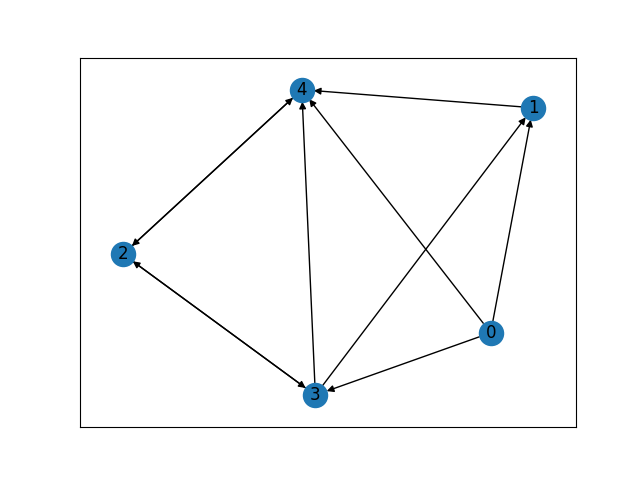
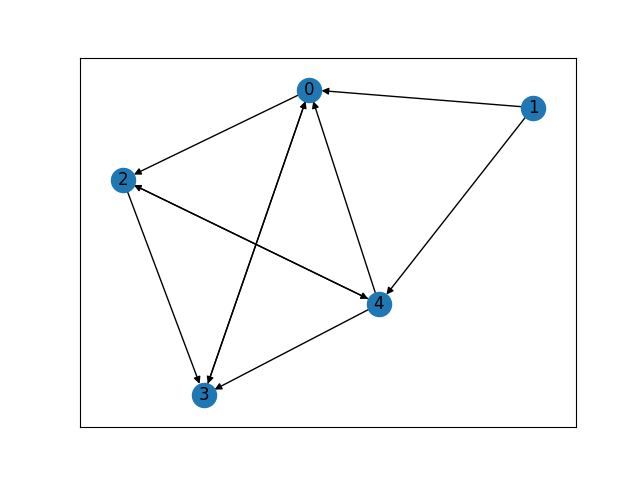
comment the random seed setup in orbit.py and fix some small grammar bugs in main file

diff --git a/environment_built_new/main_new.py b/environment_built_new/main_new.py
@@ -68,8 +68,8 @@ def stat_analysis(all_actuons):
     # count them and print the ration of C and D.
     np_actions = np.array(all_actions)
     print(f'Total actions: {len(all_actions)}')
-    print(f'Total C: {np.sum(np_actions == 'C')}')
-    print(f'Total D: {np.sum(np_actions == 'D')}') 
+    print(f'Total C: {np.sum(np_actions == "C")}')
+    print(f'Total D: {np.sum(np_actions == "D")}')
     print(f'Ratio of C: %{round(np.sum(np_actions == "C") / len(all_actions), 2) * 100}')
     print(f'Ratio of D: %{round(np.sum(np_actions == "D") / len(all_actions), 2) * 100}')
     print("--------------------")

diff --git a/environment_built_new/orbit.py b/environment_built_new/orbit.py
@@ -47,9 +47,9 @@ class Orbit():
         self.api_key = self.orbit_settings['api_key']
 
         # Setup seed for randomness
-        self.seed = np.random.randint(1000)
-        random.seed(self.seed)        
-        np.random.seed(self.seed)
+        # self.seed = np.random.randint(1000)
+        # random.seed(self.seed)
+        # np.random.seed(self.seed)
 
         # Initialize provider
         self.provider = Provider(
